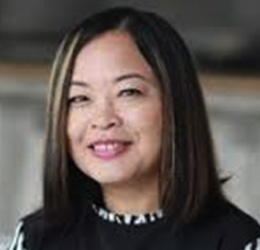
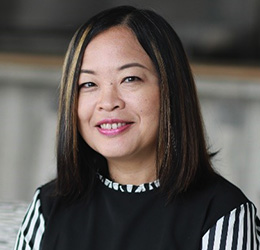
Updated yu_hua picture Added sponsor and media

diff --git a/index.html b/index.html
@@ -2104,10 +2104,10 @@
 					<div class="sponsor"> <img src="img/client/2017/chazen2.jpg" alt="" class="img-responsive center-block"> </div>
 				</div>
 				<div class="col-md-4 col-sm-4 wow fadeInRight" data-wow-delay=".3s">
-					<div class="sponsor"> <img src="img/client/2017/ChaseDream.png" alt="" class="img-responsive center-block"> </div>
+					<div class="sponsor"> <img src="img/client/sponsor/ifresh.jpg" alt="" style="height:100px;" class="img-responsive center-block"> </div>
 				</div>
 				<div class="col-md-4 col-sm-4 wow fadeInRight" data-wow-delay=".3s">
-					<div class="sponsor"> <img src="img/client/2017/beimei.jpg" alt="" class="img-responsive center-block"> </div>
+					<div class="sponsor"> <img src="img/client/2018/college_daily.jpg" alt="" style="height:100px;" class="img-responsive center-block"> </div>
 				</div>
 				<div class="col-md-4 col-sm-4 wow fadeInUp" data-wow-delay=".1s">
 					<div class="sponsor"> <img src="img/client/partner/Aiju.jpg" alt="" style="height:100px;" class="img-responsive center-block"> </div>
@@ -2116,7 +2116,7 @@
 					<div class="sponsor"> <img src="img/client/2018/columbia_asian_alumni_club.jpg" alt="" style="height:100px;" class="img-responsive center-block"> </div>
 				</div>
 				<div class="col-md-4 col-sm-4 wow fadeInUp" data-wow-delay=".1s">
-					<div class="sponsor"> <img src="img/client/2018/college_daily.jpg" alt="" style="height:100px;" class="img-responsive center-block"> </div>
+					<div class="sponsor"> <img src="img/client/2017/ChaseDream.png" alt="" class="img-responsive center-block"> </div>
 				</div>
 			</div>
 			<div class="row">
@@ -2138,6 +2138,9 @@
 				</div>
 				<div class="col-md-4 col-sm-4 wow fadeInRight" data-wow-delay=".3s">
 					<div class="sponsor"> <img src="img/client/sponsor/merger_market.jpg" alt="" class="img-responsive center-block"> </div>
+				</div>
+				<div class="col-md-4 col-sm-4 wow fadeInRight" data-wow-delay=".3s">
+					<div class="sponsor"> <img src="img/client/2018/financial_times.jpg" alt="" class="img-responsive center-block"> </div>
 				</div>
 			</div>
 <!-- 				<div class="col-md-4 col-sm-4 wow fadeInRight" data-wow-delay=".3s">

diff --git a/zh_index.html b/zh_index.html
@@ -2095,10 +2095,10 @@
 					<div class="sponsor"> <img src="img/client/2017/chazen2.jpg" alt="" class="img-responsive center-block"> </div>
 				</div>
 				<div class="col-md-4 col-sm-4 wow fadeInRight" data-wow-delay=".3s">
-					<div class="sponsor"> <img src="img/client/2017/ChaseDream.png" alt="" class="img-responsive center-block"> </div>
+					<div class="sponsor"> <img src="img/client/sponsor/ifresh.jpg" alt="" style="height:100px;" class="img-responsive center-block"> </div>
 				</div>
 				<div class="col-md-4 col-sm-4 wow fadeInRight" data-wow-delay=".3s">
-					<div class="sponsor"> <img src="img/client/2017/beimei.jpg" alt="" class="img-responsive center-block"> </div>
+					<div class="sponsor"> <img src="img/client/2018/college_daily.jpg" alt="" style="height:100px;" class="img-responsive center-block"> </div>
 				</div>
 				<div class="col-md-4 col-sm-4 wow fadeInUp" data-wow-delay=".1s">
 					<div class="sponsor"> <img src="img/client/partner/Aiju.jpg" alt="" style="height:100px;" class="img-responsive center-block"> </div>
@@ -2107,7 +2107,7 @@
 					<div class="sponsor"> <img src="img/client/2018/columbia_asian_alumni_club.jpg" alt="" style="height:100px;" class="img-responsive center-block"> </div>
 				</div>
 				<div class="col-md-4 col-sm-4 wow fadeInUp" data-wow-delay=".1s">
-					<div class="sponsor"> <img src="img/client/2018/college_daily.jpg" alt="" style="height:100px;" class="img-responsive center-block"> </div>
+					<div class="sponsor"> <img src="img/client/2017/ChaseDream.png" alt="" class="img-responsive center-block"> </div>
 				</div>
 			</div>
 			<div class="row">
@@ -2129,6 +2129,9 @@
 				</div>
 				<div class="col-md-4 col-sm-4 wow fadeInRight" data-wow-delay=".3s">
 					<div class="sponsor"> <img src="img/client/sponsor/merger_market.jpg" alt="" class="img-responsive center-block"> </div>
+				</div>
+				<div class="col-md-4 col-sm-4 wow fadeInRight" data-wow-delay=".3s">
+					<div class="sponsor"> <img src="img/client/2018/financial_times.jpg" alt="" class="img-responsive center-block"> </div>
 				</div>
 			</div>
 <!-- 				<div class="col-md-4 col-sm-4 wow fadeInRight" data-wow-delay=".3s">
